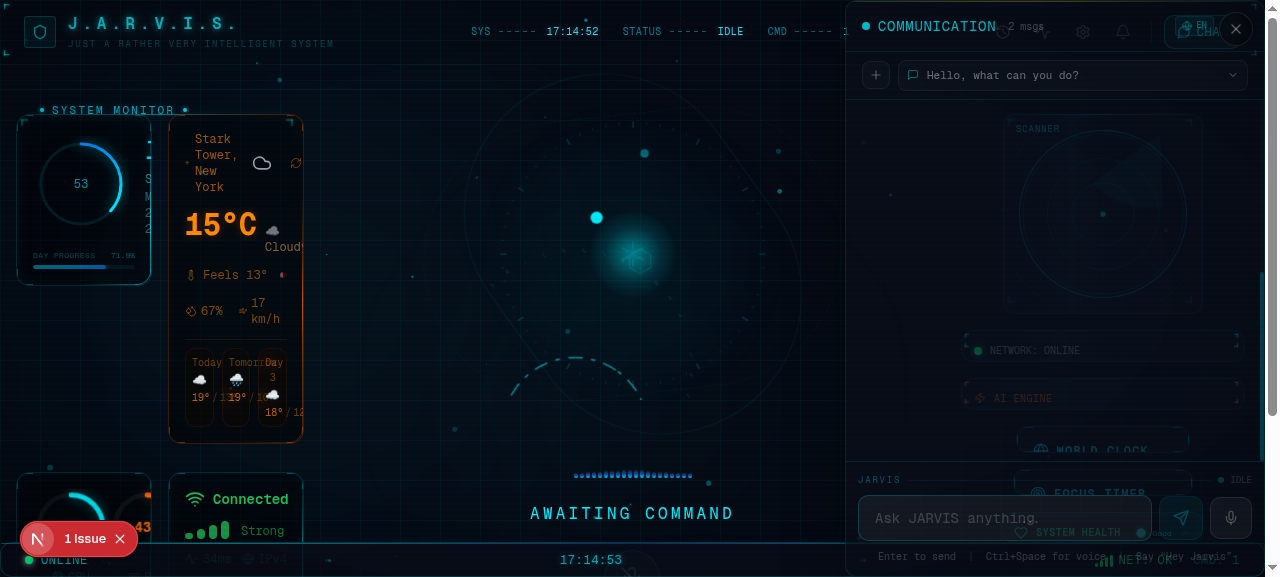
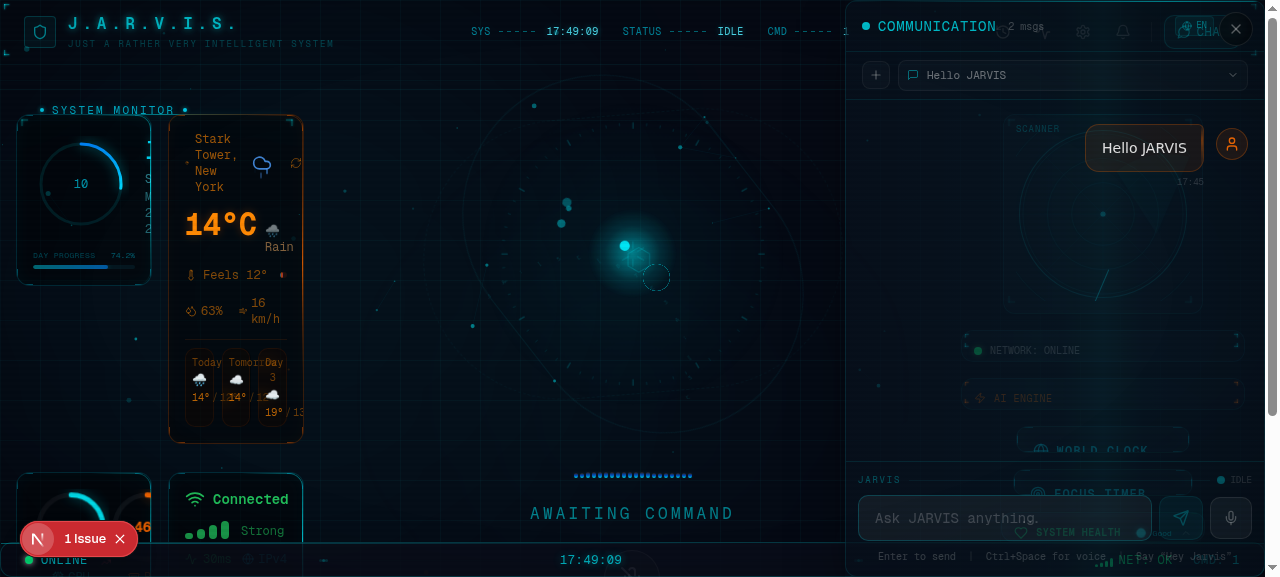
d3159cb6-1ceb-4957-9e05-305c0731ff6f

diff --git a/src/components/jarvis/ChatPanel.tsx b/src/components/jarvis/ChatPanel.tsx
@@ -4,10 +4,9 @@ import { useState, useRef, useEffect, useCallback } from 'react'
 import { motion, AnimatePresence } from 'framer-motion'
 import { Send, Mic, Trash2, VolumeX, Plus, ChevronDown, MessageSquare, Bot, Globe, Languages, Loader2 } from 'lucide-react'
 import { useJarvisStore } from '@/hooks/useJarvisStore'
-import { useVoiceRecognition } from '@/hooks/useVoiceRecognition'
 import { useTTS } from '@/hooks/useTTS'
 import { parseCommand } from '@/lib/commands'
-import { playMessageSound, playThinkingSound } from '@/lib/sounds'
+import { playMessageSound, playThinkingSound, playActivationSound, playDeactivationSound } from '@/lib/sounds'
 import { useJarvisToast } from '@/hooks/useJarvisToast'
 import { MessageBubble } from './MessageBubble'
 import { QuickCommands } from './QuickCommands'
@@ -59,9 +58,12 @@ export function ChatPanel() {
     deleteConversation,
     addNotification,
     voiceLanguage,
+    isListening: voiceIsListening,
+    setIsListening: setVoiceIsListening,
+    pendingVoiceInput,
+    setPendingVoiceInput,
+    voiceTranscript,
   } = useJarvisStore()
-
-  const { transcript, isListening: voiceIsListening, onFinalTranscript, toggleListening: toggleVoiceListening } = useVoiceRecognition()
   const { addToast } = useJarvisToast()
   const { speak, stop, isSpeaking } = useTTS()
 
@@ -522,21 +524,21 @@ export function ChatPanel() {
     }
   }, [handleSend])
 
-  // Register callback for when final voice transcript is ready (auto-send with translation)
+  // Watch for pending voice input from VoiceInput component (via store)
+  // When a voice transcript arrives, auto-send it and clear the pending state
   useEffect(() => {
-    onFinalTranscript(async (text) => {
-      // Auto-send the voice message with translation support
-      // The handleSend function will handle translation internally
-      handleSend(text)
-    })
-  }, [onFinalTranscript, handleSend])
-
-  // Show interim transcript in input while speaking
-  useEffect(() => {
-    if (voiceIsListening && transcript) {
-      setInput(transcript)
+    if (pendingVoiceInput && !isLoading) {
+      handleSend(pendingVoiceInput)
+      setPendingVoiceInput(null)
     }
-  }, [voiceIsListening, transcript])
+  }, [pendingVoiceInput, handleSend, setPendingVoiceInput, isLoading])
+
+  // Show interim transcript in input while speaking (using store's voiceTranscript)
+  useEffect(() => {
+    if (voiceIsListening && voiceTranscript) {
+      setInput(voiceTranscript)
+    }
+  }, [voiceIsListening, voiceTranscript])
 
   const showQuickCommands = messages.length <= 1
 
@@ -1002,7 +1004,14 @@ export function ChatPanel() {
             whileHover={{ scale: 1.05 }}
             whileTap={{ scale: 0.95 }}
             onClick={() => {
-              toggleVoiceListening()
+              if (soundEnabled) {
+                if (!voiceIsListening) {
+                  playActivationSound()
+                } else {
+                  playDeactivationSound()
+                }
+              }
+              setVoiceIsListening(!voiceIsListening)
             }}
             className={`
               p-3 rounded-lg

diff --git a/src/components/jarvis/VoiceInput.tsx b/src/components/jarvis/VoiceInput.tsx
@@ -14,7 +14,7 @@ interface VoiceInputProps {
 }
 
 export function VoiceInput({ className = '', onFinalTranscript, onWakeWord }: VoiceInputProps) {
-  const { soundEnabled, voiceLanguage } = useJarvisStore()
+  const { soundEnabled, voiceLanguage, setPendingVoiceInput, setVoiceTranscript } = useJarvisStore()
   const { isSupported, isListening, transcript, toggleListening, wakeWordDetected, onFinalTranscript: registerOnFinalTranscript } = useVoiceRecognition()
   const [lastSentText, setLastSentText] = useState('')
   const [isTranslating, setIsTranslating] = useState(false)
@@ -32,21 +32,34 @@ export function VoiceInput({ className = '', onFinalTranscript, onWakeWord }: Vo
     prevWakeWordRef.current = wakeWordDetected
   }, [wakeWordDetected, onWakeWord])
 
-  // Register the final transcript callback - this sends the voice text to ChatPanel
+  // Sync interim transcript to store so ChatPanel can display it
   useEffect(() => {
-    if (onFinalTranscript) {
-      registerOnFinalTranscript((text) => {
-        setLastSentText(text)
-        setTranslatedText(null)
+    setVoiceTranscript(transcript)
+  }, [transcript, setVoiceTranscript])
+
+  // ALWAYS register the final transcript callback - this sends the voice text to ChatPanel
+  // via the store's pendingVoiceInput, regardless of whether onFinalTranscript prop is provided
+  useEffect(() => {
+    registerOnFinalTranscript((text) => {
+      setLastSentText(text)
+      setTranslatedText(null)
+      // Set pending voice input in the store so ChatPanel can process it
+      setPendingVoiceInput(text)
+      // Also call the prop callback if provided
+      if (onFinalTranscript) {
         onFinalTranscript(text)
-        // Clear after 3 seconds
-        setTimeout(() => {
-          setLastSentText('')
-          setTranslatedText(null)
-        }, 3000)
-      })
-    }
-  }, [onFinalTranscript, registerOnFinalTranscript])
+      }
+      // Trigger onWakeWord to open the chat panel
+      if (onWakeWord) {
+        onWakeWord()
+      }
+      // Clear after 3 seconds
+      setTimeout(() => {
+        setLastSentText('')
+        setTranslatedText(null)
+      }, 3000)
+    })
+  }, [registerOnFinalTranscript, onFinalTranscript, onWakeWord, setPendingVoiceInput])
 
   // Keyboard shortcut: Ctrl+Space
   useEffect(() => {

diff --git a/src/hooks/useJarvisStore.ts b/src/hooks/useJarvisStore.ts
@@ -104,6 +104,10 @@ interface JarvisState {
   setIsListening: (listening: boolean) => void
   wakeWordEnabled: boolean
   setWakeWordEnabled: (enabled: boolean) => void
+  pendingVoiceInput: string | null
+  setPendingVoiceInput: (text: string | null) => void
+  voiceTranscript: string
+  setVoiceTranscript: (text: string) => void
 
   // UI
   activePanel: ActivePanel
@@ -387,6 +391,10 @@ export const useJarvisStore = create<JarvisState>()(
       setIsListening: (listening) => set({ isListening: listening }),
       wakeWordEnabled: true,
       setWakeWordEnabled: (enabled) => set({ wakeWordEnabled: enabled }),
+      pendingVoiceInput: null,
+      setPendingVoiceInput: (text) => set({ pendingVoiceInput: text }),
+      voiceTranscript: '',
+      setVoiceTranscript: (text) => set({ voiceTranscript: text }),
 
       // UI
       activePanel: 'chat',

diff --git a/worklog.md b/worklog.md
@@ -454,3 +454,20 @@
 4. **MEDIUM**: Improve right column layout with better scroll/categorization
 5. **LOW**: Add Three.js holographic globe or arc reactor visualization
 6. **LOW**: Add more easter eggs and JARVIS personality interactions
+Round 14 content
+
+### Round 14 Changes - Voice-to-Chat Text Fix + Voice Architecture (2026-05-24)
+
+#### Critical Bug Fixes
+1. ✅ **Voice input text not appearing in chat** - Fixed the primary bug where the AI agent was talking (TTS worked) but response text was not printed in the chat panel. Root cause: VoiceInput's onFinalTranscript callback was never registered because the prop was not passed from page.tsx. The guard `if (onFinalTranscript)` evaluated to false, so voice transcripts were silently lost.
+2. ✅ **Dual voice recognition instance conflict** - Both VoiceInput and ChatPanel created separate useVoiceRecognition() instances causing browser-level conflicts. Fixed by removing useVoiceRecognition from ChatPanel entirely.
+
+#### Architecture Changes
+3. ✅ **Store-based voice bridge** (useJarvisStore.ts) - Added pendingVoiceInput (session-only), setPendingVoiceInput, voiceTranscript (session-only), setVoiceTranscript
+4. ✅ **VoiceInput always registers callback** - Removed the `if (onFinalTranscript)` guard. Always sets pendingVoiceInput in store, calls onWakeWord to open chat, syncs interim transcript to store
+5. ✅ **ChatPanel uses store for voice** - Removed useVoiceRecognition() entirely. Watches pendingVoiceInput and processes via handleSend. Mic button toggles via store's setIsListening. Added sound effects to mic button. Added isLoading guard to prevent race conditions.
+
+#### Verification
+- `bun run lint` ✅ Clean
+- Browser QA: Chat panel opens, text messages send and receive correctly, AI response displays with full markdown rendering
+- Single voice recognition instance (VoiceInput only), ChatPanel communicates via store